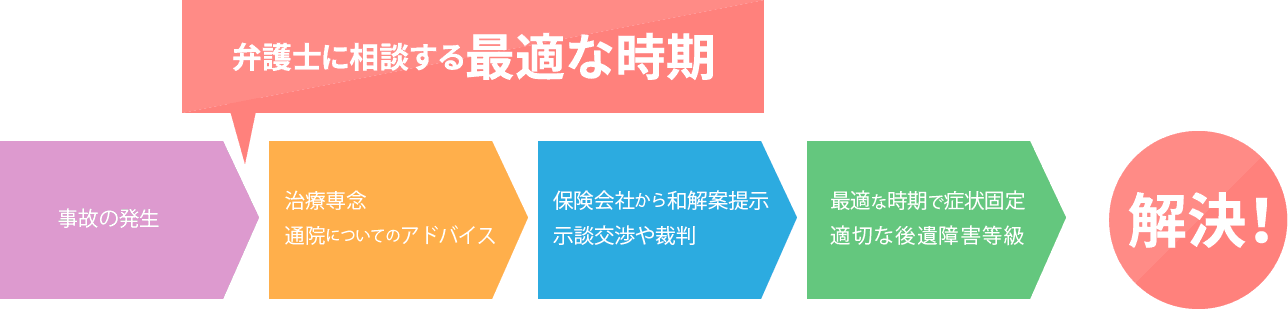
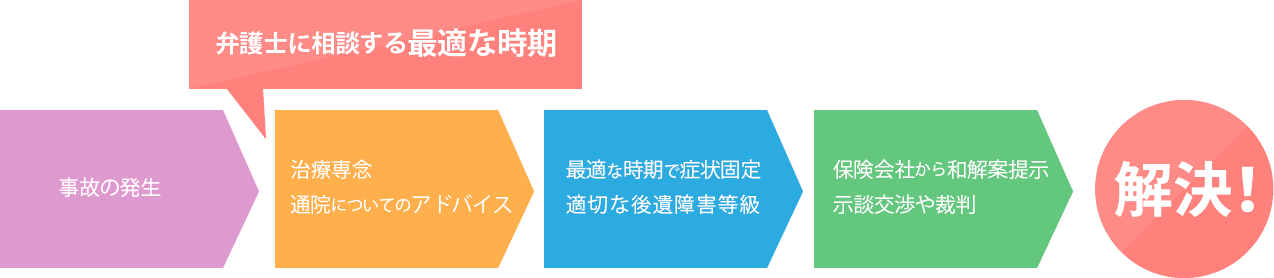
LP完成

Changed region(s): [[0.0, 0.0, 1.0, 0.9784], [0.0306, 0.6331, 0.1224, 0.7482], [0.949, 0.9209, 0.9796, 0.9784]]

diff --git a/inc/templates/lp/jiko.php b/inc/templates/lp/jiko.php
@@ -48,7 +48,7 @@
 			</div>
 			<div class="jiko-up_wrap">
 				<h3 class="jiko-up_title">③裁判基準</h3>
-				<p class="jiko-up_desc">過去の交通事故に関する裁判の判例などを踏まえて、損害の内容ごとに基準が示されています。弁護士が介入すると示談交渉からこの基準で計算します。<br>弁護士報酬を差し引いても、お手元に残る賠償金が増える場合が多いですので、<span class="bg-line">「弁護士費用のお支払い」を考慮しても、弁護士に任せるほうがメリットが多い</span>です。</p>
+				<p class="jiko-up_desc">過去の交通事故に関する裁判の判例などを踏まえて、損害の内容ごとに基準が示されています。弁護士が介入すると示談交渉からこの基準で計算します。<br>弁護士報酬を差し引いても、お手元に残る賠償金が増える場合が多いですので、<span class="bg-line">「弁護士費用のお支払い」を考慮しても、弁護士に任せることをお勧め</span>します。</p>
 			</div>
 		</div>
 		<div class="column small-12 large-6 text-center"><img src="<?php echo '//www.law-yamashita.com/wp-content/themes/law-yamashita/assets/img/lp/jiko/graph.png'; ?>" alt="弁護士介入による賠償金（慰謝料・給与損害・遺失利益など）が増加する一般的な例。"></div>
@@ -63,7 +63,7 @@
 				<h4>後遺障害の事故</h4>
 				<div class="img-wrapper"><img src="<?php echo '//www.law-yamashita.com/wp-content/themes/law-yamashita/assets/img/traffic-acc-cases_02.png'; ?>"
 					    alt="1010万円の増額"></div>
-				<p>　依頼者は、タクシー乗車中にタクシーが交通事故に遭い、局部に神経症状を残すとして、<span class="bg-line">14級の後遺障害認定</span>を受けた。加害者の任意保険会社は、治療費等すでに約310万を支払済みであったところ、症状が固定したので、賠償金として残金200万円を支払って示談を成立させたい旨を提案してきた（
+				<p>　依頼者は、タクシー乗車中に交通事故に遭い、局部に神経症状を残すものとして、<span class="bg-line">14級の後遺障害認定</span>を受けた。加害者の任意保険会社は、治療費等ですでに約310万を支払済みであったところ、症状が固定したので、賠償金として残金200万円を支払って示談を成立させたい旨を提案してきた（
 					<span class="bg-line">保険会社基準では損害額合計は約500万円ということ</span>）。<br>　当事務所において、<span class="bg-line">裁判基準</span>に基づいて計算し、
 					<span class="bg-line">担当弁護士が保険会社と交渉。</span>結果、保険会社提示額の残金200万円から、
 					<span class="bg-line">300万円</span>増額し、残金500万円で示談が成立した。</p>
@@ -72,23 +72,22 @@
 				<h4>後遺障害の事故</h4>
 				<div class="img-wrapper"><img src="<?php echo '//www.law-yamashita.com/wp-content/themes/law-yamashita/assets/img/traffic-acc-cases_04.png'; ?>"
 					    alt="300万円の増額"></div>
-				<p>　依頼者が自転車で横断中、トラックが側面から衝突、依頼者には<span class="bg-line">右足関節の機能障害他の後遺障害</span>が残り、<span class="bg-line">併合11級と認定</span>された。保険会社は未払分として
-					<span class="bg-line">保険金520万円</span>を提示した。<br>　労働能力喪失率が後遺障害に伴う損害に影響を与えるので、この点につき、保険会社と粘り強く交渉し、<span class="bg-line">保険金850万円</span>の支払いを勝ち取った。</p>
+				<p>　依頼者が自転車で道路を横断中、トラックに側面から衝突され、<span class="bg-line">右足関節の機能障害他の後遺障害</span>が残り、<span class="bg-line">併合11級と認定</span>された。保険会社は未払分として
+					<span class="bg-line">保険金520万円</span>を提示した。<br>　後遺障害が将来得る収入に影響を与えるので、この点につき、保険会社と粘り強く交渉し、<span class="bg-line">保険金850万円</span>の支払いを勝ち取った。</p>
+			</div>
+			<div class="cases">
+				<h4>後遺障害の事故</span>
+				</h4>
+				<div class="img-wrapper"><img src="<?php echo '//www.law-yamashita.com/wp-content/themes/law-yamashita/assets/img/traffic-acc-cases_03.png'; ?>"
+					    alt="330万円の増額"></div>
+				<p>　依頼者は、バイクで交差点を直進中、右折中の自動車と衝突し、<span class="bg-line">左腕神経麻痺・機能障害と右手首骨折・機能障害等の重症</span>を負った。<span class="bg-line">後遺障害等級5級</span>が認められたので、これにしたがって、当事務所で最大限の損害額を見積もり、請求した。<br>　他方、過失割合も争いになっていたが、依頼者が認めざるを得ない最小限の割合にとどめ、和解した。治療費等で既に支払われている額を差し引いて、依頼者は約4,700万円を得ることができた。</p>
 			</div>
 			<div class="cases">
 				<h4>死亡事故</h4>
 				<div class="img-wrapper"><img src="<?php echo '//www.law-yamashita.com/wp-content/themes/law-yamashita/assets/img/traffic-acc-cases_01.png'; ?>"
 					    alt="330万円の増額"></div>
-				<p>　被害者（80代半ば。無職）は、信号のない交差点にて横断歩道を歩行中に、左方より乗用車にはねられた。<span class="bg-line">当方過失ゼロ。</span>頭部打撲裂創、外傷性くも膜下出血。約5ヶ月入院後、死亡。
+				<p>　被害者（80代半ば。無職）は、信号のない交差点にて横断歩道を歩行中に、左方より自動車にはねられた。<span class="bg-line">当方過失ゼロ。</span>頭部打撲裂創、外傷性くも膜下出血により約5ヶ月入院後、死亡。
 					<span class="bg-line">当事務所において裁判基準に基づいて計算</span>したところ、<span class="bg-line">保険会社提示額より1,000万円強の増額</span>となり、保険会社もこれを認めた。</p>
-			</div>
-			<div class="cases">
-				<h4>バイク対自動車</span>
-				</h4>
-				<div class="img-wrapper"><img src="<?php echo '//www.law-yamashita.com/wp-content/themes/law-yamashita/assets/img/traffic-acc-cases_03.png'; ?>"
-					    alt="330万円の増額"></div>
-				<p>　依頼者は、バイクで交差点を直進中、右折中の自動車と衝突し、<span class="bg-line">左腕神経麻痺・機能障害と右手首骨折・機能障害等の重症</span>を負った。<span class="bg-line">後遺障害等級5級</span>が認められたので、これにしたがって、当事務所で最大限の損害額を見積もり、請求した。<br>　他方、過失割合も争いになっていたが、依頼者が認めざるを得ない最小限の割合にとどめ、和解した。
-					<span class="bg-line">最終的な和解額は、約6,400万円。</span>このうち、治療費等で既に支払われている額を差し引いて、依頼者は約4,700万円を得ることができた。（※左胸のほか、手首にも後遺障害あり）</p>
 			</div>
 			<p class="text-center">その他、交通事故関係の解決事例は<a href="<?php echo DTDSH_HOME_URL; ?>cases-category/traffic-acc" target="_blank" title="解決事例　カテゴリー：交通事故"
 				    class="link-external">解決事例　カテゴリー：交通事故</a>に多数掲載しております。</p>
@@ -99,8 +98,8 @@
 <section class="jiko-cta_wrap">
 	<div class="row align-middle">
 		<div class="column small-12 medium-9 large-10">
-			<h2 class="jiko-cta_title">交通事故に遭われたら<br><strong class="color-red font-2x">お早め</strong>に弁護士に相談しましょう。</h2>
-			<p class="jiko-cta_desc">症状が固定されていない早期からご相談いただくと、弁護士が代わりに交渉などを行うことで治療に専念できるメリットがあります。<br>さらに、適切な後遺障害を認定してもらえるよう通院についてのアドバイス、必要な場合は医師宛の書面を作成したり、直接医師と面談し、診断書の内容についての理解を求めることができます。</p>
+			<h2 class="jiko-cta_title">交通事故に遭われたら<br><strong class="color-red font-2x">お早め</strong>に弁護士へご相談ください。</h2>
+			<p class="jiko-cta_desc">事故後早期の段階からご相談・ご依頼いただくと、弁護士が代わりに交渉などを行うことで治療に専念できるメリットがあります。<br>さらに、適切な後遺障害等級を認定してもらえるよう通院についてのアドバイス、必要な場合は医師宛の書面を作成したり、直接医師と面談し、後遺障害診断書の内容についての理解を求めたりすることができます。</p>
 		</div>
 		<div class="column small-12 medium-3 large-2 text-center"><img src="<?php echo '//www.law-yamashita.com/wp-content/themes/law-yamashita/assets/img/lp/jiko/soudan-free.png'; ?>"
 			    alt="交通事故に遭われたらお早めに弁護士へ無料の相談しましょう。"></div>
@@ -117,38 +116,36 @@
 			<h3 class="jiko-section_title -sub">交通事故に強い山下江法律事務所のサポート</h3>
 			<div class="jiko-support_wrap bg-grafpaper">
 				<div class="jiko-support">
-					<h4 class="jiko-support_title">初期の費用という負担をなくしました</h4>
+					<h4 class="jiko-support_title">初期の費用負担をなくしました</h4>
 					<p class="jiko-support_desc">弁護士に頼むと多額の費用が必要なのでは？というご心配を解消すべく、相談料無料・着手金無料で交通事故問題の解決を依頼できます。</p>
 				</div>
 				<div class="jiko-support">
 					<h4 class="jiko-support_title">通院についてのアドバイス</h4>
-					<p class="jiko-support_desc">ケガなどで通院が必要な方には、適切な後遺障害が認定されるようアドバイスします。</p>
+					<p class="jiko-support_desc">ケガなどで通院が必要な方には、後遺障害が残りそうな場合には適切な後遺障害等級が認定されるようアドバイスします。</p>
 				</div>
 				<div class="jiko-support">
 					<h4 class="jiko-support_title">保険会社との交渉</h4>
-					<p class="jiko-support_desc">弁護士が適切な賠償金（慰謝料・給与損害・遺失利益など）によるきちんとした補償を受けられるよう、保険会社との交渉をすべて行いますので、弁護士に任せて治療に専念できます。</p>
+					<p class="jiko-support_desc">弁護士が適切な賠償金（慰謝料・休業8損害・逸失利益など）を受けられるよう、保険会社との交渉をすべて行いますので、弁護士に任せて治療に専念できます。</p>
+				</div>
+				<div class="jiko-support">
+					<h4 class="jiko-support_title">症状固定の判断を見極めます</h4>
+					<p class="jiko-support_desc">治療を続けても大幅な改善が見込めなくなった段階のことを「症状固定」といいます。<br>症状固定とされると治療が打ち切られるなど、損害賠償の額に大きく影響するため、症状固定日をいつにするかは非常に大きな意味を持ちます。<br>適切な時期を症状固定日とするよう弁護士が交渉します。</p>
 				</div>
 				<div class="jiko-support">
 					<h4 class="jiko-support_title">後遺障害認定のサポート</h4>
-					<p class="jiko-support_desc">適切な等級で後遺障害を認定してもらうためにはどのような書類を用意すべきか、適切な記述があるか。これらを判断するのには一定以上の知識・経験が必要です。<br><span class="bg-line">準備が不十分であったために等級を獲得できなかったといった事態を避けるため</span>、等級認定手続を経る前に、弁護士に一度相談されることをお勧めいたします。</p>
+					<p class="jiko-support_desc">適切な後遺障害等級を認定してもらうためには、一定水準以上の知識・経験が必要です。<br><span class="bg-line">準備が不十分であったために後遺障害等級を獲得できないといった事態を避けるため</span>、等級認定手続を経る前に、弁護士に一度相談されることをお勧めいたします。</p>
 				</div>
 				<div class="jiko-support">
 					<h4 class="jiko-support_title">必要に応じて医師と直接面談</h4>
-					<p class="jiko-support_desc">医師宛の書面を作成したり、必要に応じて直接医師と面談したりします。<br>このようにして、適切な等級での後遺障害を認定されるようサポートします。</p>
+					<p class="jiko-support_desc">医師宛の書面を作成したり、必要に応じて医師と直接面談したりします。<br>適切な後遺障害等級を認定されるようサポートします。</p>
 				</div>
 				<div class="jiko-support">
-					<h4 class="jiko-support_title">症状固定という重要な判断を見極めます</h4>
-					<p class="jiko-support_desc">治療を続けても大幅な改善が見込めなくなった段階のことを「症状固定」といいます。<br>この症状固定は、事故による損害賠償の額に大きく影響するため、非常に大きな意味を持ちます。<br>最悪の場合、治療継続が必要なのに、治療費を打ち切られて、訴訟になっても裁判所が認めてくれないこともあります。<br>とても重要な判断ですから、
-						<span class="bg-line">専門家である弁護士が判断を後押し</span>をします。</p>
+					<h4 class="jiko-support_title">すでに後遺障害認定結果が出てしまった方でも異議申立可能</h4>
+					<p class="jiko-support_desc">後遺障害認定結果が出てしまった方でも、それが適切ではない場合、認定結果の異議申立を求めることができます。<br>相応の準備が必要ですので、新たな後遺障害診断書を用意するなど万全の体制で臨みます。</p>
 				</div>
 				<div class="jiko-support">
-					<h4 class="jiko-support_title">すでに後遺障害認定結果が出てしまった方でも見直し可能！</h4>
-					<p class="jiko-support_desc">後遺障害認定結果が出てしまった方でも、それが適切ではない場合、認定結果の見直しを求められます。<br>実際に、弁護士介入後、病院（医師）のもとへ同行したことで、<span class="bg-line">後遺障害が認められなかったケースでも</span>、後遺障害の認定を受けました。</p>
-				</div>
-				<div class="jiko-support">
-					<h4 class="jiko-support_title">適切な賠償金（慰謝料・給与損害・遺失利益など）の増額には「交渉」が不可欠</h4>
-					<p class="jiko-support_desc">増額するためには、保険会社との粘り強い交渉が不可欠です。依頼者に代わってその「交渉」をできるのは、弁護士のみです。<br><a href="#section-1">慰謝料などの増額</a>にあるように、弁護士は一般的に高額である③裁判基準をもとに適切な賠償金まで増額して示談交渉します。<br>弁護士が介入することにより、多くの場合は賠償金が増額しますので、
-						<u>弁護士報酬を考慮しても、弁護士不介入の場合に比べて、多くの賠償金を得ることができます</u>。</p>
+					<h4 class="jiko-support_title">適切な賠償金（慰謝料・休業損害・逸失利益など）の増額には「交渉」が不可欠</h4>
+					<p class="jiko-support_desc">増額するためには、保険会社との粘り強い交渉が不可欠です。依頼者に代わってその「交渉」をできるのは、弁護士のみです。<br>弁護士は裁判基準をもとに適切な賠償金が得られるよう示談交渉します。<br>弁護士が介入することにより、多くの場合は賠償金が増額しますので、弁護士報酬を考慮しても、弁護士不介入の場合に比べて、多くの賠償金を得ることができます。</p>
 				</div>
 			</div>
 		</div>
@@ -159,20 +156,19 @@
 		<h2 class="jiko-section_title column small-12">山下江法律事務所の特長</h2>
 		<div class="column small-12 article-body">
 			<h3>1. 広島で多数の解決実績があります</h3>
-			<p>平成23年以降の交通事故案件での実績は、<strong class="bg-line">相談数1,948件、受任件数817件</strong>（平成28年度末現在）です。地元広島における法律事務所で、これだけ多数の相談件数、受任件数の実績があります。</p>
-			<h3>2. 後遺障害など医学的知識があります</h3>
+			<p>平成23年以降の交通事故案件での実績は、<strong class="bg-line">相談数1,948件、受任件数817件</strong>（平成28年度末現在）です。広島における法律事務所で、これだけ多数の相談件数、受任件数の実績があります。</p>
+			<h3>2. 後遺障害などに関する医学的知識があります</h3>
 			<p class="jiko-images"><img src="<?php echo '//www.law-yamashita.com/wp-content/themes/law-yamashita/assets/img/jiko-learning.jpg'; ?>" alt="被害者に最も有利な解決を実現するため、医師による医学的知識の習得・研修をおこなっております。"></p>
 			<p>交通事故は多くの場合、身体的傷害を伴うものです。その傷害の回復（治療）をどのようにするのか、その傷害がもたらす後遺障害はどうなるのかは、被害者にとって一番の問題です。被害者のそうした<span class="bg-line">悩みに答え、最高の解決を得られる</span>ようにするため、私たちは医師による医学的知識の習得・研修も行っております。</p>
 			<h3>3. 交通事故チームという専門チームがあります</h3>
 			<p class="jiko-images"><img src="//hiroshima-jiko.com/img/JTkaigi.jpg" alt="交通事故チームによって集積・分析された多数の解決データを共有化し、高い専門性を事務所全体で活用しています。"></p>
-			<p>後遺障害の認定や事故の相手方保険会社との交渉には、高い専門性と経験が求められます。当事務所における多数の解決事例データを集積・分析し、事務所全体で共有化することで被害者に最も有利な解決を実現するため、交通事故チームを結成しています。</p>
-			<h3>4. 事故直後から治療・解決までご相談ください</h3>
-			<p>交通事故に遭われた場合、早い段階で弁護士にご相談いただければ、通院についてのアドバイスや適切な等級の後遺障害認定にあたってのアドバイスを行い、必要に応じて病院（医師）まで同行します。すでに認定されてしまった後遺障害を覆すのは難しい場合があるので、
-				<span class="bg-line">なるべく早い段階でご相談</span>ください。<br>あなたは一人ではありません。私たち弁護士が治療から解決まで寄り添います。</p>
+			<p>後遺障害等級の認定や事故の相手方保険会社との交渉には、高い専門性と経験が求められます。被害者に最も有利な解決を実現するため、交通事故チームを結成し、当事務所における多数の解決事例のデータを集積・分析し、事務所全体で共有しています。</p>
+			<h3>4. 事故直後からのご依頼に対応しています</h3>
+			<p>交通事故に遭われた場合、早い段階で弁護士にご相談・ご依頼いただければ、通院や適切な後遺障害等級認定にあたってのアドバイスを行い、必要に応じて医師と面談します。治療が不適切である場合、適切な後遺障害等級を得ることが難しくなるので、治療開始から間もない<span class="bg-line">なるべく早い段階でご相談</span>ください。<br>あなたは一人ではありません。私たち弁護士が治療から解決まで寄り添います。</p>
 			<h3>5. 相談料や着手金など初期費用面で負担がありません</h3>
 			<p class="jiko-images"><img src="//www.law-yamashita.com/wp-content/themes/law-yamashita/assets/img/rates/jiko-sodan.png" alt="被害者救済のため、被害者の相談料は無料です。">
 				<img src="//www.law-yamashita.com/wp-content/themes/law-yamashita/assets/img/rates/jiko-retainer.png" alt="被害者救済のため、被害者の相談料は無料です。"></p>
-			<p>被害者救済のため、交通事故に遭われた方の<strong class="bg-line">相談料・着手金は無料</strong>です。（弁護士費用特約により保険会社から支払われる場合は別）</p>
+			<p>被害者救済のため、交通事故に遭われた方の<strong class="bg-line">相談料・着手金は無料</strong>です。（弁護士費用特約のある方は<a href="#section-6">こちら</a>をご覧ください。）</p>
 		</div>
 	</div>
 </section>
@@ -218,7 +214,7 @@
 <section id="section-6" class="jiko-section" data-magellan-target="section-6">
 	<div class="row">
 		<div class="column small-12">
-			<h2 class="jiko-cta_title text-center">「弁護士費用特約」が付いていれば<br><span class="font-2x color-red">弁護士費用</span>が<span class="font-2x color-red">無料</span>に!</h2>
+			<h2 class="jiko-cta_title text-center">「弁護士費用特約」が付いていれば<br><span class="font-2x color-red">弁護士費用</span>が基本的に<span class="font-2x color-red">無料</span>!</h2>
 			<p class="jiko_cta_desc p2">弁護士に依頼すると、費用が高いイメージから相談しづらいという被害者の方もいらっしゃると思います。しかし、保険の特約に「弁護士費用特約」が付いていれば、その中でまかなわれる場合が多いです。</p>
 			<p class="p1 bg-gainsboro">特殊なケースを除けば保険会社が支払うので、基本的に<span class="bg-line">お客様自身のご負担はありません。</span>実費や出張日当などの費用についても弁護士費用特約から支出されます。<br>多くの保険会社では、弁護士費用の総額が300万円までと上限が定めてありますが、弁護士費用が300万円以上になるようなケースはまれですので、
 				<span class="bg-line">多くの場合は弁護士費用特約でカバーできます。</span><br>※弁護士費用特約は保険会社の約款により細かい条件などがあるケースがございます。まずは無料でご相談ください。</p>
@@ -230,7 +226,7 @@
 	<div class="row align-middle">
 		<div class="column small-12 medium-9 large-10">
 			<h2 class="jiko-cta_title">交通事故に遭ったら、<strong class="color-red font-2x">早い段階</strong>で弁護士に相談しましょう。</h2>
-			<p class="jiko-cta_desc">交通事故の発生後、早い段階でご相談いただければ、交渉などをすべて弁護士が代理するので治療に専念できます。<br>また、適切な後遺障害を認定してもらえるよう通院についてのアドバイスもいたします。</p>
+			<p class="jiko-cta_desc">交通事故の発生後、早い段階でご相談・ご依頼いただければ、交渉などをすべて弁護士が代理するので治療に専念できます。<br>また、適切な後遺障害を認定してもらえるよう通院についてのアドバイスもいたします。</p>
 		</div>
 		<div class="column small-12 small-3 large-2 text-center"><img src="<?php echo '//www.law-yamashita.com/wp-content/themes/law-yamashita/assets/img/lp/jiko/soudan-free.png'; ?>"
 			    alt="広島最大級の山下江法律事務所なら交通事故の相談が無料！"></div>
